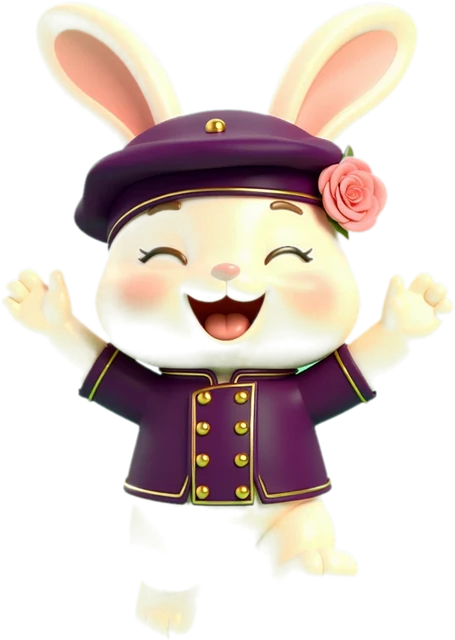
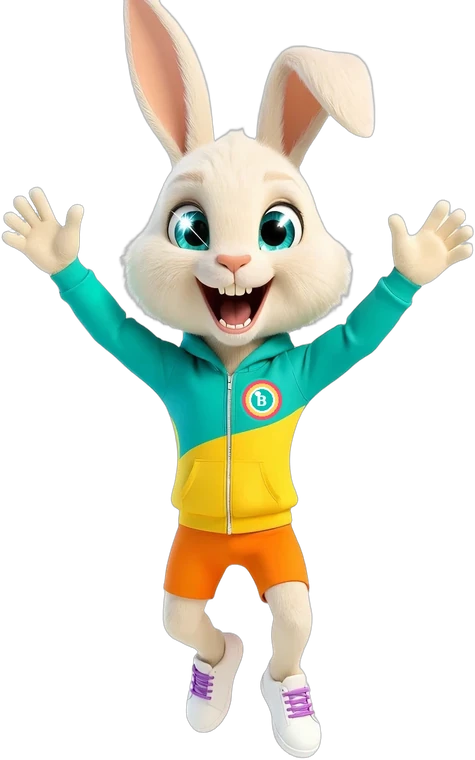
New Cordie: stand, gift, wow, point and cheer in the bright 3D design; other poses fall back to the new set until their art lands; prompts ask for long pants
Claude-Session: https://claude.ai/code/session_01UFwaAvE9Qev2U3W1b6GA4j

diff --git a/bingo-bloom.html b/bingo-bloom.html
@@ -2162,6 +2162,8 @@ button.city { text-align: left; color: var(--ink); font: inherit; }
 #title .tcordie { position: absolute; left: 4%; bottom: 6%; height: 86%; aspect-ratio: 9 / 16; border-radius: 26px; overflow: hidden; z-index: 1;
   box-shadow: 0 0 0 4px #ffe58f, 0 0 0 7px var(--ol), 0 12px 30px rgba(20,5,35,.55), 0 0 40px 8px rgba(255,190,230,.45); transform: rotate(-4deg); animation: cordIn .9s .2s cubic-bezier(.2,.9,.3,1.3) both, cordBob 4s 1.2s ease-in-out infinite; }
 #title .tcordie img { width: 100%; height: 100%; object-fit: cover; display: block; }
+#title .tcordie.tnew { background: radial-gradient(circle at 50% 30%, #ffe58f, #ff9ad5 45%, #7fd3ff 100%); }
+#title .tcordie.tnew img { object-fit: contain; object-position: 50% 100%; padding: 6% 4% 0; box-sizing: border-box; }
 #title .tcordie .tglow { position: absolute; inset: 0; background: linear-gradient(105deg, transparent 40%, rgba(255,255,255,.55) 50%, transparent 60%) -200% 0 / 250% 100% no-repeat; animation: hsheen 5s ease-in-out infinite; }
 @keyframes cordIn { from { transform: translateX(-120%) rotate(-14deg); opacity: 0; } }
 @keyframes cordBob { 50% { transform: rotate(-2deg) translateY(-6px); } }
@@ -4143,7 +4145,7 @@ function title() {
   var petals = '';
   for (var i = 0; i < 14; i++) petals += '<img src="art/icon-petal.webp" alt="" style="left:' + rand(100) + '%;width:' + (18 + rand(22)) + 'px;animation-duration:' + (9 + rand(9)) + 's,' + (3 + rand(3)) + 's;animation-delay:-' + rand(18) + 's,-' + rand(4) + 's">';
   show('<div class="screen" id="title"><div class="tbg"></div><div class="tfall">' + petals + '</div>' +
-    '<div class="tcordie"><img src="art/splash-cordie.webp" alt="Cordie the bunny"><i class="tglow"></i></div>' +
+    '<div class="tcordie tnew"><img src="art/mascot-cheer.webp" alt="Cordie the bunny"><i class="tglow"></i></div>' +
     '<div class="tballoons">' + ['#ff9cc4', '#b98cff', '#ffd45c', '#8fe3ff', '#ff9cc4'].map(function (c, i) { return '<i style="--c:' + c + ';left:' + (8 + i * 19) + '%;animation-delay:-' + (i * 1.3) + 's"></i>'; }).join('') + '</div>' +
     '<div class="in"><img class="tball" src="art/icon-bingo-ball.webp" alt="">' +
     '<h1 class="logo" data-t="Bingo Bloom"><span>Bingo Bloom</span></h1>' +
@@ -7320,7 +7322,13 @@ var STORIES = {
   hollow: ['Trick or treat! Pumpkin Hollow is open for Halloween.', 'Open the gift squares for spooky surprises.']
 };
 var RIO_POSE = { point: 'rio-point', wow: 'rio-cheer', cheer: 'rio-cheer', wave: 'rio-wave', stand: 'rio-wave', gift: 'rio-maraca' };
-function cordieArt(pose) { return 'art/mascot-' + ((S.city === 'rio' && RIO_POSE[pose]) ? RIO_POSE[pose] : pose) + '.webp'; }
+// poses drawn in the new Cordie design; anything else falls back to a new-design pose until its art arrives
+var CORDIE_NEW = { stand: 1, gift: 1, wow: 1, point: 1, cheer: 1 }, CORDIE_FALLBACK = { sleep: 'stand', face: 'stand', wave: 'point', think: 'wow', sad: 'wow' };
+function cordieArt(pose) {
+  var p = (S.city === 'rio' && RIO_POSE[pose] && CORDIE_NEW[RIO_POSE[pose]]) ? RIO_POSE[pose] : pose;
+  if (!CORDIE_NEW[p]) p = CORDIE_FALLBACK[p] || 'stand';
+  return 'art/mascot-' + p + '.webp';
+}
 function roomStory(room, done) {
   var st = STORIES[room.id]; if (!st) { done(); return; }
   var how = (MODE_INFO[room.mode] || {}).how || '';

diff --git a/game.html b/game.html
@@ -2164,6 +2164,8 @@ button.city { text-align: left; color: var(--ink); font: inherit; }
 #title .tcordie { position: absolute; left: 4%; bottom: 6%; height: 86%; aspect-ratio: 9 / 16; border-radius: 26px; overflow: hidden; z-index: 1;
   box-shadow: 0 0 0 4px #ffe58f, 0 0 0 7px var(--ol), 0 12px 30px rgba(20,5,35,.55), 0 0 40px 8px rgba(255,190,230,.45); transform: rotate(-4deg); animation: cordIn .9s .2s cubic-bezier(.2,.9,.3,1.3) both, cordBob 4s 1.2s ease-in-out infinite; }
 #title .tcordie img { width: 100%; height: 100%; object-fit: cover; display: block; }
+#title .tcordie.tnew { background: radial-gradient(circle at 50% 30%, #ffe58f, #ff9ad5 45%, #7fd3ff 100%); }
+#title .tcordie.tnew img { object-fit: contain; object-position: 50% 100%; padding: 6% 4% 0; box-sizing: border-box; }
 #title .tcordie .tglow { position: absolute; inset: 0; background: linear-gradient(105deg, transparent 40%, rgba(255,255,255,.55) 50%, transparent 60%) -200% 0 / 250% 100% no-repeat; animation: hsheen 5s ease-in-out infinite; }
 @keyframes cordIn { from { transform: translateX(-120%) rotate(-14deg); opacity: 0; } }
 @keyframes cordBob { 50% { transform: rotate(-2deg) translateY(-6px); } }
@@ -4145,7 +4147,7 @@ function title() {
   var petals = '';
   for (var i = 0; i < 14; i++) petals += '<img src="art/icon-petal.webp" alt="" style="left:' + rand(100) + '%;width:' + (18 + rand(22)) + 'px;animation-duration:' + (9 + rand(9)) + 's,' + (3 + rand(3)) + 's;animation-delay:-' + rand(18) + 's,-' + rand(4) + 's">';
   show('<div class="screen" id="title"><div class="tbg"></div><div class="tfall">' + petals + '</div>' +
-    '<div class="tcordie"><img src="art/splash-cordie.webp" alt="Cordie the bunny"><i class="tglow"></i></div>' +
+    '<div class="tcordie tnew"><img src="art/mascot-cheer.webp" alt="Cordie the bunny"><i class="tglow"></i></div>' +
     '<div class="tballoons">' + ['#ff9cc4', '#b98cff', '#ffd45c', '#8fe3ff', '#ff9cc4'].map(function (c, i) { return '<i style="--c:' + c + ';left:' + (8 + i * 19) + '%;animation-delay:-' + (i * 1.3) + 's"></i>'; }).join('') + '</div>' +
     '<div class="in"><img class="tball" src="art/icon-bingo-ball.webp" alt="">' +
     '<h1 class="logo" data-t="Bingo Bloom"><span>Bingo Bloom</span></h1>' +
@@ -7322,7 +7324,13 @@ var STORIES = {
   hollow: ['Trick or treat! Pumpkin Hollow is open for Halloween.', 'Open the gift squares for spooky surprises.']
 };
 var RIO_POSE = { point: 'rio-point', wow: 'rio-cheer', cheer: 'rio-cheer', wave: 'rio-wave', stand: 'rio-wave', gift: 'rio-maraca' };
-function cordieArt(pose) { return 'art/mascot-' + ((S.city === 'rio' && RIO_POSE[pose]) ? RIO_POSE[pose] : pose) + '.webp'; }
+// poses drawn in the new Cordie design; anything else falls back to a new-design pose until its art arrives
+var CORDIE_NEW = { stand: 1, gift: 1, wow: 1, point: 1, cheer: 1 }, CORDIE_FALLBACK = { sleep: 'stand', face: 'stand', wave: 'point', think: 'wow', sad: 'wow' };
+function cordieArt(pose) {
+  var p = (S.city === 'rio' && RIO_POSE[pose] && CORDIE_NEW[RIO_POSE[pose]]) ? RIO_POSE[pose] : pose;
+  if (!CORDIE_NEW[p]) p = CORDIE_FALLBACK[p] || 'stand';
+  return 'art/mascot-' + p + '.webp';
+}
 function roomStory(room, done) {
   var st = STORIES[room.id]; if (!st) { done(); return; }
   var how = (MODE_INFO[room.mode] || {}).how || '';

diff --git a/index.html b/index.html
@@ -7,5 +7,5 @@ html,body{margin:0;height:100%;overflow:hidden;background:#2a0c46}
   #g{width:100vh;height:100vw;width:100dvh;height:100dvw;transform-origin:top left;transform:rotate(90deg) translateY(-100%)}
 }
 </style></head><body>
-<iframe id="g" src="game.html?v=be70e99270" title="Bingo Bloom" allow="fullscreen; autoplay; screen-wake-lock"></iframe>
+<iframe id="g" src="game.html?v=6d32e22948" title="Bingo Bloom" allow="fullscreen; autoplay; screen-wake-lock"></iframe>
 </body></html>

diff --git a/CORDIE_PROMPTS.md b/CORDIE_PROMPTS.md
@@ -14,7 +14,7 @@ Use these prompts word for word. The character block (between the ▶ marks) is 
 
 ## The character block
 
-▶ Cordie, a charming slim athletic cartoon bunny mascot with a long lean body and long legs, high-quality 3D render in the style of a Pixar or DreamWorks animated movie, soft fluffy cream-white fur with visible fur texture, LARGE EXPRESSIVE ALMOND-SHAPED BRIGHT TURQUOISE EYES WIDE OPEN WITH SPARKLING HIGHLIGHTS and a hint of mischief, small rounded nose, warm confident smile with two small buck teeth, tall upright ears with peach inner ears, one ear playfully bent, wearing a fitted color-blocked zip hoodie in electric teal, sunshine yellow and tangerine orange with a round bingo-ball badge on the chest, slim white sneakers with violet laces, no bow, no flower, no dress, no eyelashes, gender neutral, friendly and full of personality, soft cinematic lighting, bright saturated colors, full body, isolated on a plain pure white background, no shadow, no text ◀
+▶ Cordie, a charming slim athletic cartoon bunny mascot with a long lean body and long legs, high-quality 3D render in the style of a Pixar or DreamWorks animated movie, soft fluffy cream-white fur with visible fur texture, LARGE EXPRESSIVE ALMOND-SHAPED BRIGHT TURQUOISE EYES WIDE OPEN WITH SPARKLING HIGHLIGHTS and a hint of mischief, small rounded nose, warm confident smile with two small buck teeth, tall upright ears with peach inner ears, one ear playfully bent, wearing a fitted color-blocked zip hoodie in electric teal, sunshine yellow and tangerine orange with a round bingo-ball badge on the chest, LONG TANGERINE ORANGE JOGGER PANTS DOWN TO THE ANKLES, slim white sneakers with violet laces, no bow, no flower, no dress, no eyelashes, gender neutral, friendly and full of personality, soft cinematic lighting, bright saturated colors, full body, isolated on a plain pure white background, no shadow, no text ◀
 
 ## Poses (file name → prompt)
 
